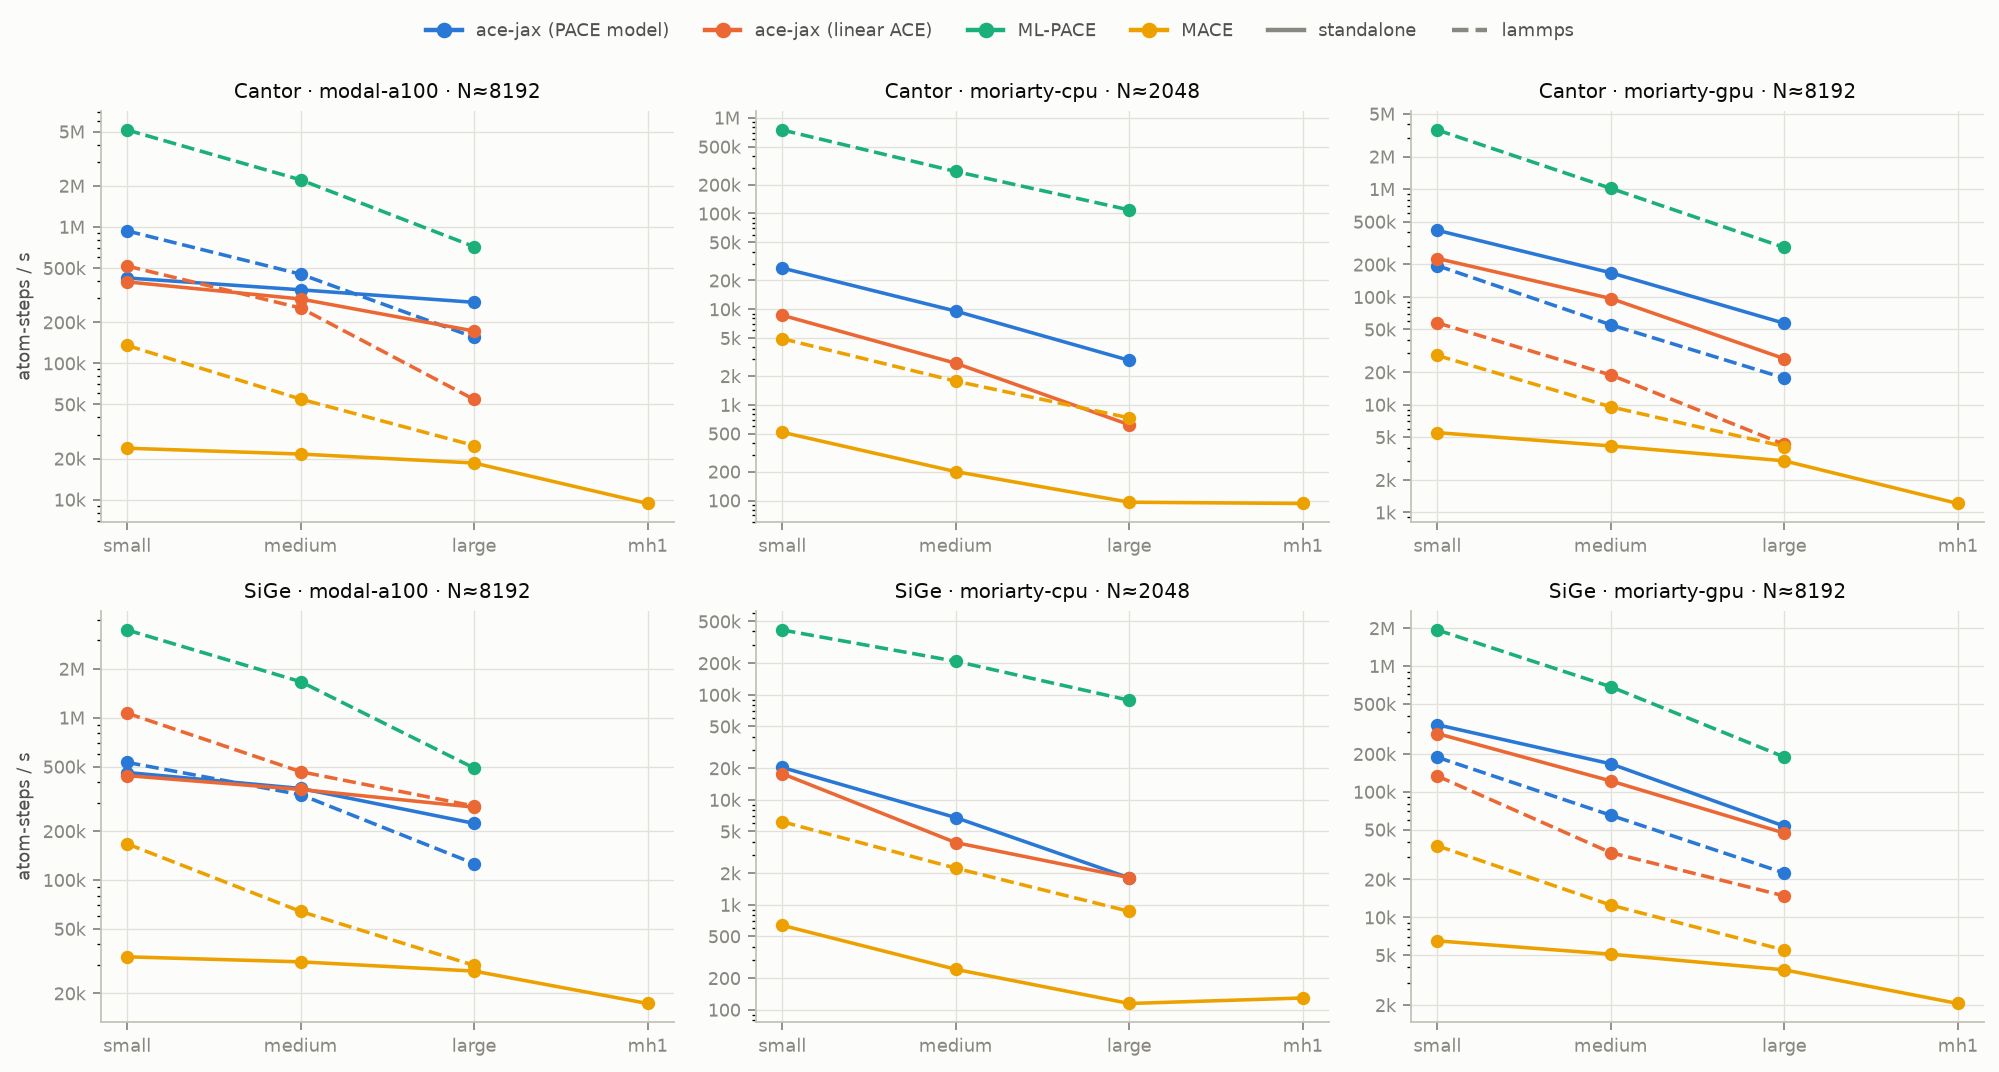
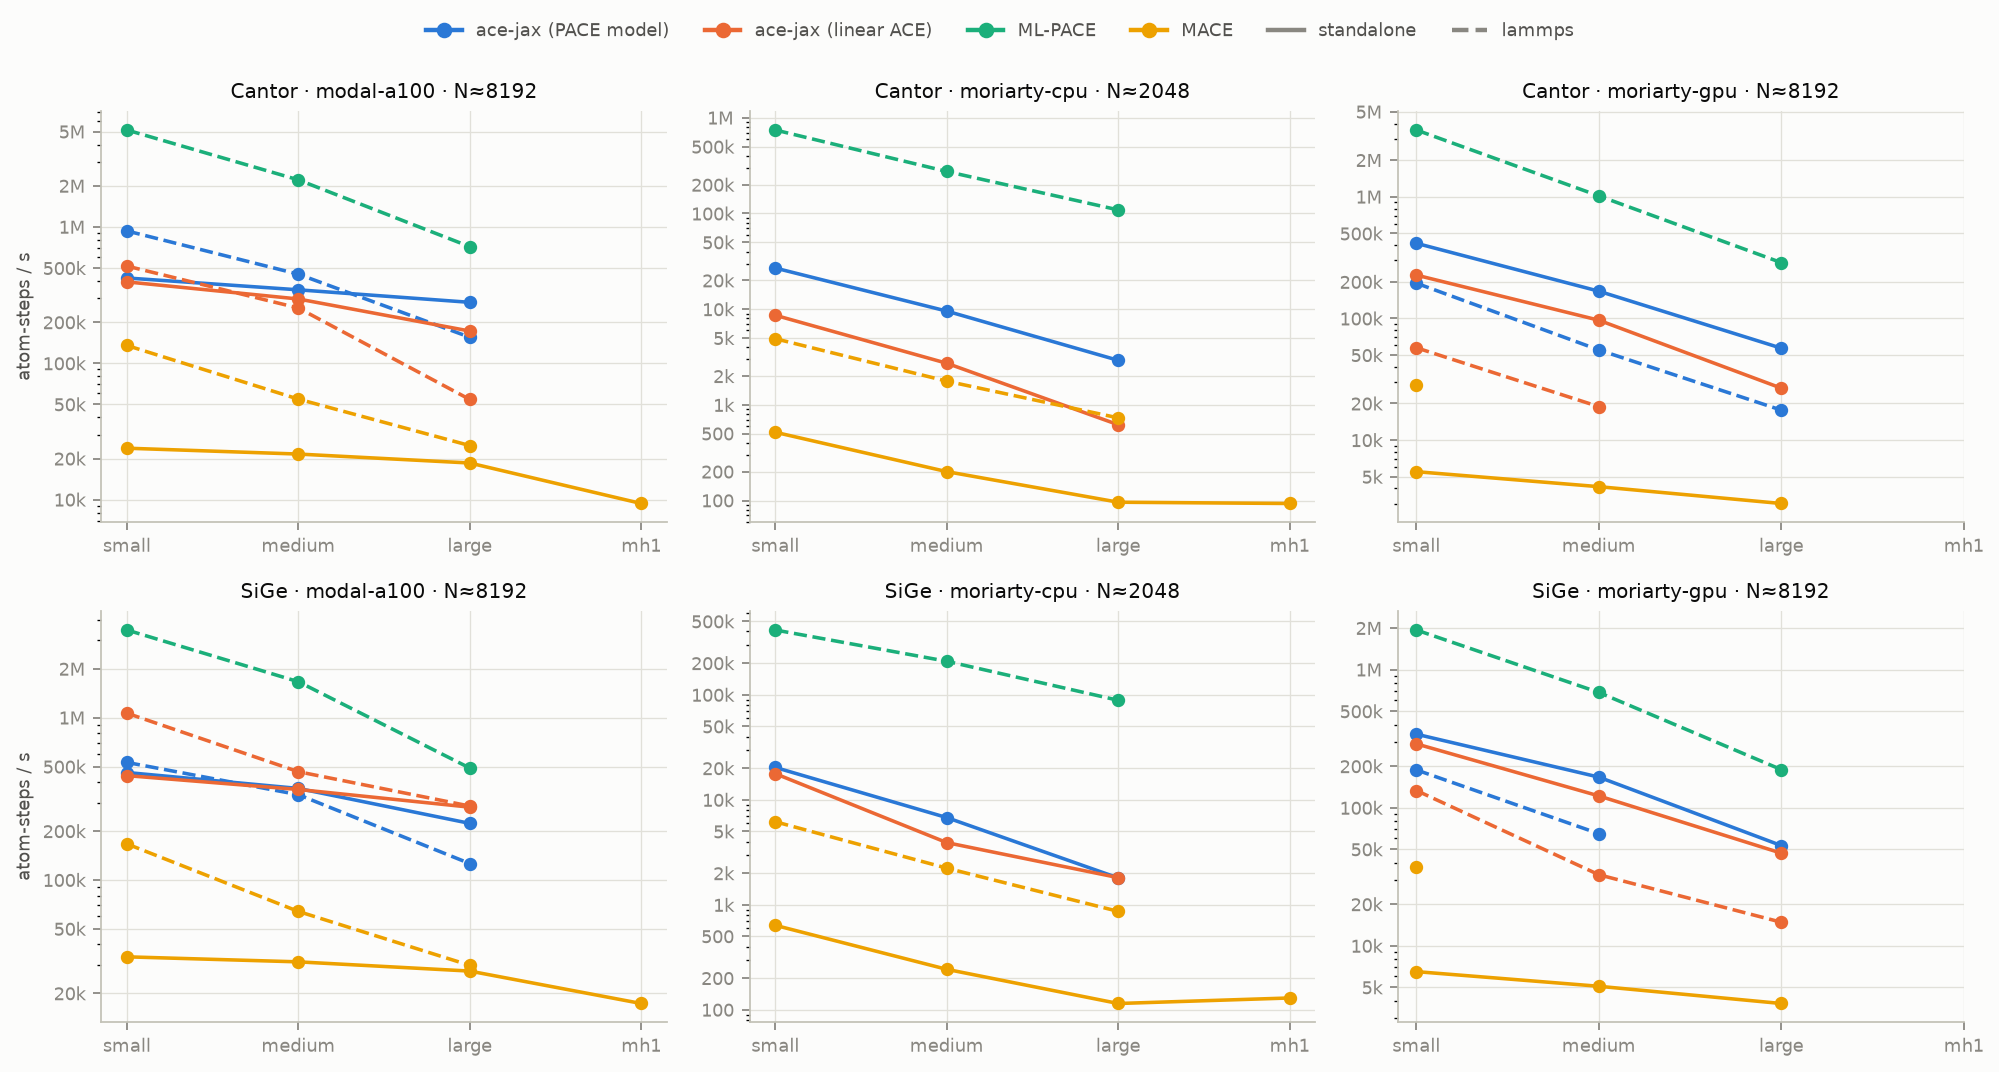
fix(docs): final-review Important #4-#5; sparse-bundle parity rows on the A4500
- The model-size figure plots only rows at exactly the target N; lines that
  ran out of memory below it are left out instead of drawn from smaller N.
- The benchmarks page's ratios are restated per host and mode from the rows
  (ace-jax vs MACE, ML-PACE vs ace-jax, capacity, parity), with caveats for
  the neighbour-list dependency and the LAMMPS step budget.
- moriarty-gpu: parity gates for both ace-jax bundle layouts (all pass).

Claude-Session: https://claude.ai/code/session_01U3iMaFAZz1eJD6PPMJcsgP

diff --git a/bench/scaling/plot.py b/bench/scaling/plot.py
@@ -215,7 +215,10 @@ def fig_model_size(rows, out, dtype="float64"):
     fig, axes = _panels(len(systems), len(hosts))
     for j, host in enumerate(hosts):
         n_target = 2048 if "cpu" in host else 8192
-        best = _at_fixed_n(ok, host, n_target)
+        # exactly N: a line that did not reach N (out of memory) is left out
+        # rather than drawn from a smaller N, where GPU throughput is lower
+        best = {k: r for k, r in _at_fixed_n(ok, host, n_target).items()
+                if r["n_atoms"] == n_target}
         for i, system in enumerate(systems):
             ax = axes[i][j]
             for code in CODES:
@@ -370,8 +373,8 @@ CAPTIONS = {
                                   "solid = standalone, dashed = LAMMPS.",
     "scaling_throughput_float32": "The same in float32. ML-PACE and Symmetrix (MACE in "
                                   "LAMMPS) evaluate in double, so they are absent.",
-    "scaling_model_size": "Throughput vs model size at a fixed size (8,192 atoms on GPU, "
-                          "2,048 on CPU).",
+    "scaling_model_size": "Throughput vs model size at exactly 8,192 atoms on GPU and "
+                          "2,048 on CPU; a line is absent at a size that did not fit.",
     "scaling_memory": "Peak device memory vs system size (standalone); dotted verticals "
                       "mark the first size that did not fit.",
     "scaling_precision": "float32 / float64 throughput ratio (standalone).",

diff --git a/tests/test_bench_scaling.py b/tests/test_bench_scaling.py
@@ -602,3 +602,23 @@ def test_parity_gate_covers_both_bundle_layouts():
     for code in ("acejax-pace", "acejax-ace"):
         assert ("acejax", code, "dense") in got and ("acejax", code, "sparse") in got
     assert ("mlpace", "mlpace", None) in got and ("mace", "mace", None) in got
+
+
+def test_model_size_figure_plots_only_the_target_size(tmp_path, monkeypatch):
+    """A line that ran out of memory below N must not be drawn from a smaller N
+    under a title that says N: GPU throughput is lower at small N."""
+    import matplotlib
+    matplotlib.use("Agg")
+    from scaling import plot
+    rows = []
+    for size, ns in (("small", (4096, 8192)), ("medium", (4096,)), ("large", (2048, 4096, 8192))):
+        for n in ns:
+            rows.append({"code": "mace", "mode": "standalone", "model": f"mace/SiGe/{size}",
+                         "size": size, "system": "SiGe", "n_atoms": n, "device": "gpu",
+                         "dtype": "float64", "host": "moriarty-gpu", "status": "ok",
+                         "call_s": 1.0})
+    figs = []
+    monkeypatch.setattr(plot.plt, "close", lambda f=None: figs.append(f))
+    plot.fig_model_size(rows, tmp_path)
+    xs = sorted(x for ax in figs[-1].axes for ln in ax.lines for x in ln.get_xdata())
+    assert xs == [0, 2]                            # medium (only 4096) is absent

diff --git a/docs/benchmarks.md b/docs/benchmarks.md
@@ -29,27 +29,40 @@ design is in `docs/benchmark-scaling-spec.md`, and how to reproduce it is in
   20 GB); Modal A100-80GB.
 - **Parity gate:** each host's parity checks passed before any timing ran.
   - ace-jax vs ML-PACE: |dE|/atom ≤ 5e-14, |dF| ≤ 4e-10.
-  - ace-jax standalone vs ace-jax in LAMMPS: ≤ 3e-15.
+  - ace-jax standalone vs ace-jax in LAMMPS, both bundle layouts: |dE|/atom
+    ≤ 3e-15, |dF| ≤ 3e-14.
   - MACE vs Symmetrix: ≤ 7e-7.
 
-## Findings (medium models, float64; 8,192 atoms on GPU, 2,048 on CPU)
+## Findings
 
-- **ML-PACE in LAMMPS is the fastest code on every host,** at about 1.7–2.2M
-  atom-steps/s on the A100, 0.7–1.0M on the A4500, and 0.2–0.3M on 16 CPU
-  cores. On the same `.yace` models, ace-jax reaches about 0.3–0.45M on the
-  A100 (4–6× slower), 0.1–0.17M standalone on the A4500, and about 7–10k on
-  the CPU.
-  - A profiling study (`docs/pace-performance-gap.md`, on the follow-up
-    speed-up branch) traces most of the GPU gap to calculator overhead and
-    specific model kernels, and prototypes changes that bring the model call
-    level with ML-PACE.
-- **ace-jax is 5–15× faster than MACE** at the model sizes compared here,
-  standalone and in LAMMPS. It fits 10–30× more atoms in the same memory: on
-  the A100, ace-jax PACE fits about 1M atoms, where MACE runs out at about
-  32–64k.
+Medium models, float64, at exactly 8,192 atoms on the GPUs and 2,048 on the
+CPU. The ratios come from the rows in the table below.
+
+- **ML-PACE in LAMMPS is the fastest code on every host.** It reaches
+  1.7–2.2M atom-steps/s on the A100, 0.7–1.0M on the A4500, and 0.2–0.3M on
+  16 CPU cores. On the same `.yace` models, ace-jax PACE is slower:
+
+  | host | vs ace-jax standalone | vs ace-jax in LAMMPS | note |
+  |---|---|---|---|
+  | A100 | 4.6–6.4× | about 5× | |
+  | A4500 | 4–6× | 10–18× | slow consumer-card float64 |
+  | CPU | about 30× | — | 16 MPI ranks against one process |
+
+  A profiling study (`docs/pace-performance-gap.md`, on the follow-up
+  speed-up branch) traces most of the GPU gap to calculator overhead and
+  specific model kernels. It prototypes changes that bring the model call
+  level with ML-PACE.
+- **ace-jax is faster than MACE at every size compared here:**
+  - standalone: 12–16× on the A100, 23–41× on the A4500, and 14–48× on the
+    CPU;
+  - in LAMMPS on the A100: 5–8×;
+  - on the A4500, where MACE in LAMMPS runs out of memory at 8,192 atoms,
+    about 2–10× at 4,096.
+- **ace-jax fits far more atoms than MACE in the same memory.** On the A100,
+  ace-jax PACE runs 524k–1M atoms standalone and linear ACE 262k–524k, where
+  MACE stops at 32k. That's 8–32× more, and similar on the A4500.
 - **float32** speeds ace-jax up 1–1.5× on the A100 and 1.5–3× on the
-  consumer A4500, where float64 is slow. The gain for MACE is up to 6× on the
-  A4500.
+  consumer A4500, where float64 is slow. MACE gains up to 6× on the A4500.
 
 ## Caveats
 
@@ -63,6 +76,14 @@ design is in `docs/benchmark-scaling-spec.md`, and how to reproduce it is in
   - Symmetrix evaluates in double whatever precision it's given, so MACE
     LAMMPS rows are float64 only.
 - **ace-jax in LAMMPS is GPU-only.** lammps-jax provides only `jax/kk`.
+- **Neighbour list.** Standalone ace-jax numbers use `matscipy-neighbours`
+  (the `fast-neighbours` extra, built with CUDA on the GPU hosts, so the
+  dense neighbour graph is built on the device). A default install falls
+  back to ASE's neighbour list and is slower end to end.
+- **LAMMPS step counts.** Each case times about 60 s of MD (10–200 steps,
+  sized from the previous size's step time) after 3–50 warm-up steps. This
+  is a deviation from the spec's fixed 200/50, made so the slow MACE CPU
+  cases finish.
 - **Out-of-memory markers.** On the CPU host, cases are killed at 48 GB of
   resident memory (the node has 62 GB); on GPUs they stop at the device
   limit. A dotted vertical line marks the first size that did not fit.
@@ -84,7 +105,7 @@ Hollow markers: ace-jax chose the sparse layout.
 
 ![scaling_model_size_float64](figs/scaling_model_size_float64.png)
 
-*Throughput vs model size at a fixed size (8,192 atoms on GPU, 2,048 on CPU).*
+*Throughput vs model size at exactly 8,192 atoms on GPU and 2,048 on CPU; a line is absent at a size that did not fit.*
 
 ![scaling_memory_float64_medium](figs/scaling_memory_float64_medium.png)
 

diff --git a/bench/scaling/benchmarks_intro.md b/bench/scaling/benchmarks_intro.md
@@ -27,27 +27,40 @@ design is in `docs/benchmark-scaling-spec.md`, and how to reproduce it is in
   20 GB); Modal A100-80GB.
 - **Parity gate:** each host's parity checks passed before any timing ran.
   - ace-jax vs ML-PACE: |dE|/atom ≤ 5e-14, |dF| ≤ 4e-10.
-  - ace-jax standalone vs ace-jax in LAMMPS: ≤ 3e-15.
+  - ace-jax standalone vs ace-jax in LAMMPS, both bundle layouts: |dE|/atom
+    ≤ 3e-15, |dF| ≤ 3e-14.
   - MACE vs Symmetrix: ≤ 7e-7.
 
-## Findings (medium models, float64; 8,192 atoms on GPU, 2,048 on CPU)
+## Findings
 
-- **ML-PACE in LAMMPS is the fastest code on every host,** at about 1.7–2.2M
-  atom-steps/s on the A100, 0.7–1.0M on the A4500, and 0.2–0.3M on 16 CPU
-  cores. On the same `.yace` models, ace-jax reaches about 0.3–0.45M on the
-  A100 (4–6× slower), 0.1–0.17M standalone on the A4500, and about 7–10k on
-  the CPU.
-  - A profiling study (`docs/pace-performance-gap.md`, on the follow-up
-    speed-up branch) traces most of the GPU gap to calculator overhead and
-    specific model kernels, and prototypes changes that bring the model call
-    level with ML-PACE.
-- **ace-jax is 5–15× faster than MACE** at the model sizes compared here,
-  standalone and in LAMMPS. It fits 10–30× more atoms in the same memory: on
-  the A100, ace-jax PACE fits about 1M atoms, where MACE runs out at about
-  32–64k.
+Medium models, float64, at exactly 8,192 atoms on the GPUs and 2,048 on the
+CPU. The ratios come from the rows in the table below.
+
+- **ML-PACE in LAMMPS is the fastest code on every host.** It reaches
+  1.7–2.2M atom-steps/s on the A100, 0.7–1.0M on the A4500, and 0.2–0.3M on
+  16 CPU cores. On the same `.yace` models, ace-jax PACE is slower:
+
+  | host | vs ace-jax standalone | vs ace-jax in LAMMPS | note |
+  |---|---|---|---|
+  | A100 | 4.6–6.4× | about 5× | |
+  | A4500 | 4–6× | 10–18× | slow consumer-card float64 |
+  | CPU | about 30× | — | 16 MPI ranks against one process |
+
+  A profiling study (`docs/pace-performance-gap.md`, on the follow-up
+  speed-up branch) traces most of the GPU gap to calculator overhead and
+  specific model kernels. It prototypes changes that bring the model call
+  level with ML-PACE.
+- **ace-jax is faster than MACE at every size compared here:**
+  - standalone: 12–16× on the A100, 23–41× on the A4500, and 14–48× on the
+    CPU;
+  - in LAMMPS on the A100: 5–8×;
+  - on the A4500, where MACE in LAMMPS runs out of memory at 8,192 atoms,
+    about 2–10× at 4,096.
+- **ace-jax fits far more atoms than MACE in the same memory.** On the A100,
+  ace-jax PACE runs 524k–1M atoms standalone and linear ACE 262k–524k, where
+  MACE stops at 32k. That's 8–32× more, and similar on the A4500.
 - **float32** speeds ace-jax up 1–1.5× on the A100 and 1.5–3× on the
-  consumer A4500, where float64 is slow. The gain for MACE is up to 6× on the
-  A4500.
+  consumer A4500, where float64 is slow. MACE gains up to 6× on the A4500.
 
 ## Caveats
 
@@ -61,6 +74,14 @@ design is in `docs/benchmark-scaling-spec.md`, and how to reproduce it is in
   - Symmetrix evaluates in double whatever precision it's given, so MACE
     LAMMPS rows are float64 only.
 - **ace-jax in LAMMPS is GPU-only.** lammps-jax provides only `jax/kk`.
+- **Neighbour list.** Standalone ace-jax numbers use `matscipy-neighbours`
+  (the `fast-neighbours` extra, built with CUDA on the GPU hosts, so the
+  dense neighbour graph is built on the device). A default install falls
+  back to ASE's neighbour list and is slower end to end.
+- **LAMMPS step counts.** Each case times about 60 s of MD (10–200 steps,
+  sized from the previous size's step time) after 3–50 warm-up steps. This
+  is a deviation from the spec's fixed 200/50, made so the slow MACE CPU
+  cases finish.
 - **Out-of-memory markers.** On the CPU host, cases are killed at 48 GB of
   resident memory (the node has 62 GB); on GPUs they stop at the device
   limit. A dotted vertical line marks the first size that did not fit.
